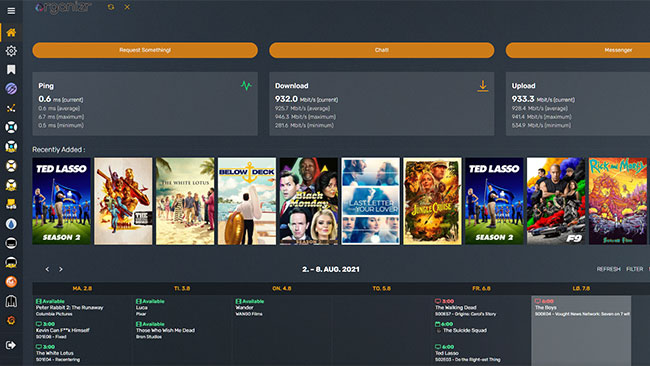
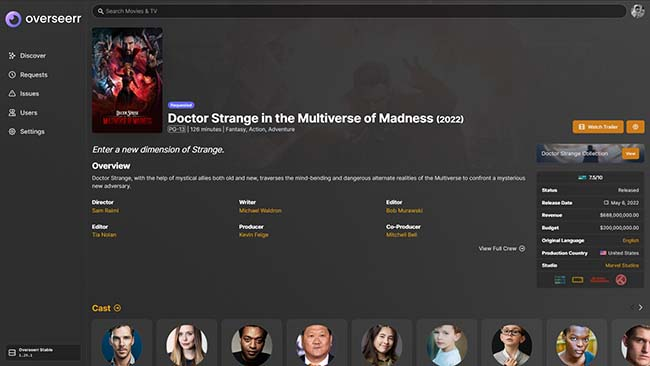
fix: :bug: Plex theme: overseerr gradient fix

diff --git a/css/theme-options/plex.css b/css/theme-options/plex.css
@@ -31,5 +31,5 @@
     --plex-poster-unwatched: #e5a00d;
     --petio-spinner: invert(0%) sepia(0%) saturate(100%) hue-rotate(0deg) brightness(100%) contrast(100%);/* Made with https://codepen.io/jsm91/embed/ZEEawyZ */
     --gitea-color-primary-dark-4: 255, 193, 7;
-    --overseerr-gradient: url(/resources/blur-noise.png) repeat scroll 0% 0%, radial-gradient(circle at 0% 100% , rgba(54, 66, 84, 0.55) 0% , rgba(54, 66, 84, 0.043) 70%, rgba(54, 66, 84, 0) 80%), radial-gradient(circle at 100% 100%, rgba(113, 135, 153, 0.55) 0%, rgba(113, 135, 153, 0.043) 70%, rgba(113, 135, 153, 0) 80%) center center/cover no-repeat fixed , radial-gradient(circle at 100% 0%, rgba(54, 66, 84, 0.55) 0%, rgba(54, 66, 84, 0.043) 70%, rgba(54, 66, 84, 0) 80%), radial-gradient(circle at 0% 0%, rgba(91, 114, 135, 0.55) 0%, rgba(91, 114, 135, 0.043) 70%, rgba(91, 114, 135, 0) 80%) center center/cover no-repeat fixed , rgb(0, 0, 0,.9) center center/cover no-repeat fixed;
-   }
+    --overseerr-gradient: radial-gradient(circle farthest-side at 0% 100%, rgb(47, 47, 47) 0%, rgba(47, 47, 47, 0) 100%), radial-gradient(circle farthest-side at 100% 100%, rgb(63, 63, 63) 0%, rgba(63, 63, 63, 0) 100%), radial-gradient(circle farthest-side at 100% 0%, rgb(76, 76, 76) 0%, rgba(76, 76, 76, 0) 100%), radial-gradient(circle farthest-side at 0% 0%, rgb(58, 58, 58) 0%, rgba(58, 58, 58, 0) 100%), rgba(0, 0, 0, 0.5) center center/cover no-repeat fixed;
+  }
